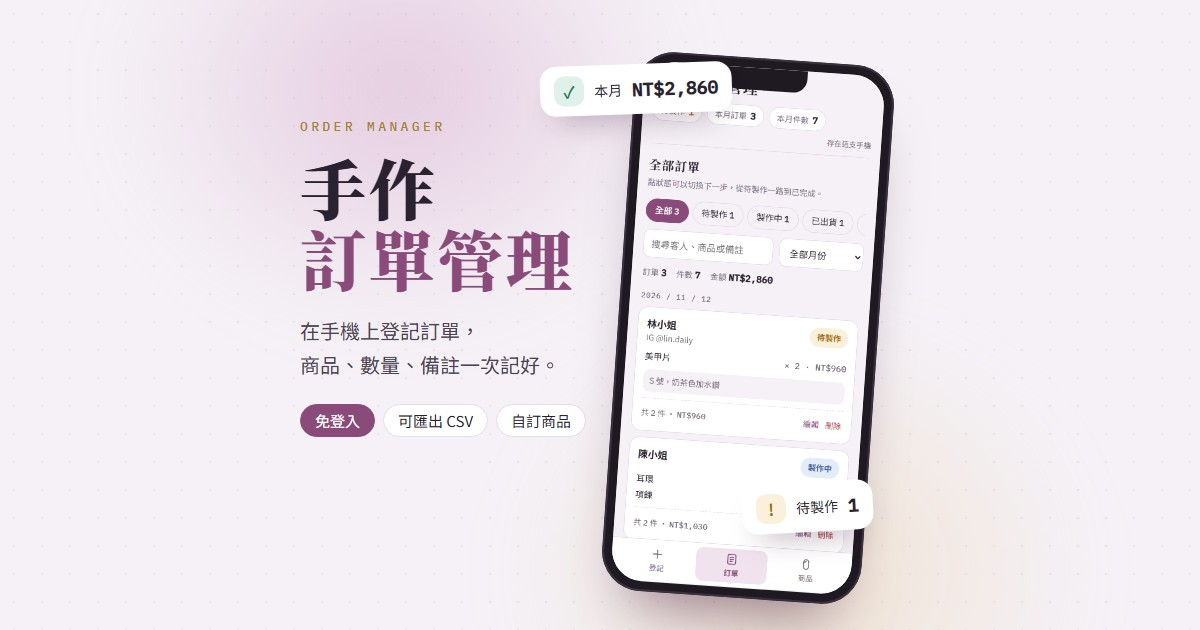
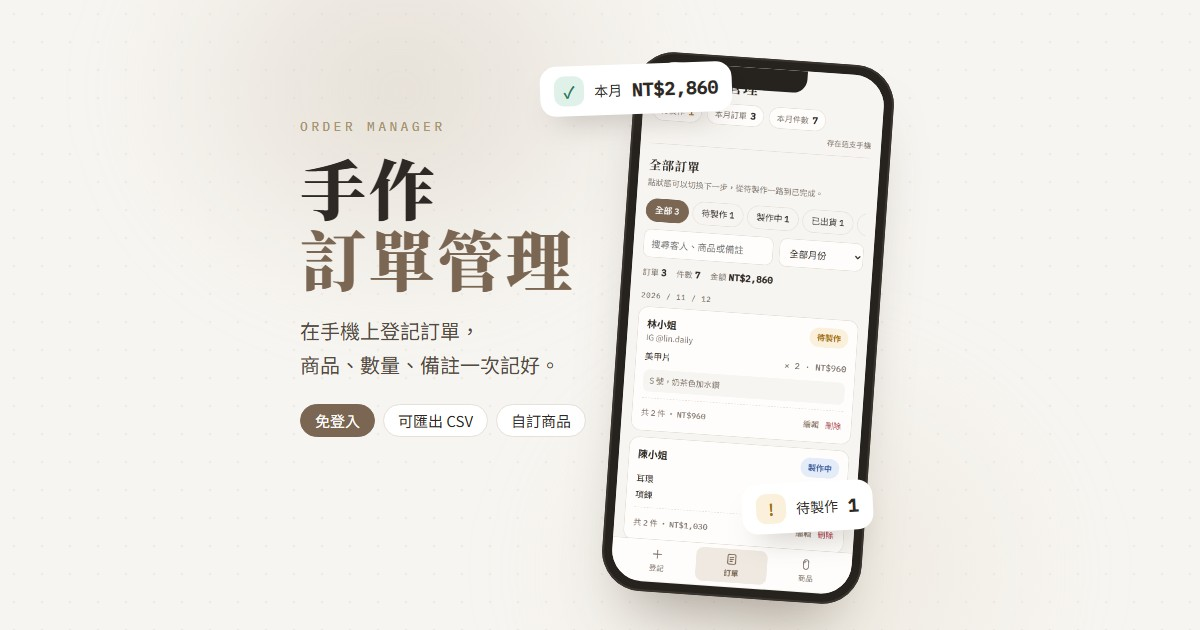
Recolor share thumbnail to pearl ivory and champagne

diff --git a/index.html b/index.html
@@ -9,11 +9,11 @@
 <meta property="og:title" content="手作訂單管理">
 <meta property="og:description" content="在手機上登記訂單，商品、數量、備註一次記好。免登入，可匯出 CSV。">
 <meta property="og:url" content="https://alicebibo.github.io/order-manager/">
-<meta property="og:image" content="https://alicebibo.github.io/order-manager/og-image.jpg?v=1">
+<meta property="og:image" content="https://alicebibo.github.io/order-manager/og-image.jpg?v=2">
 <meta property="og:image:width" content="1200">
 <meta property="og:image:height" content="630">
 <meta name="twitter:card" content="summary_large_image">
-<meta name="twitter:image" content="https://alicebibo.github.io/order-manager/og-image.jpg?v=1">
+<meta name="twitter:image" content="https://alicebibo.github.io/order-manager/og-image.jpg?v=2">
 <meta name="theme-color" content="#f7f5f1">
 <meta name="apple-mobile-web-app-capable" content="yes">
 <meta name="apple-mobile-web-app-title" content="訂單管理">
